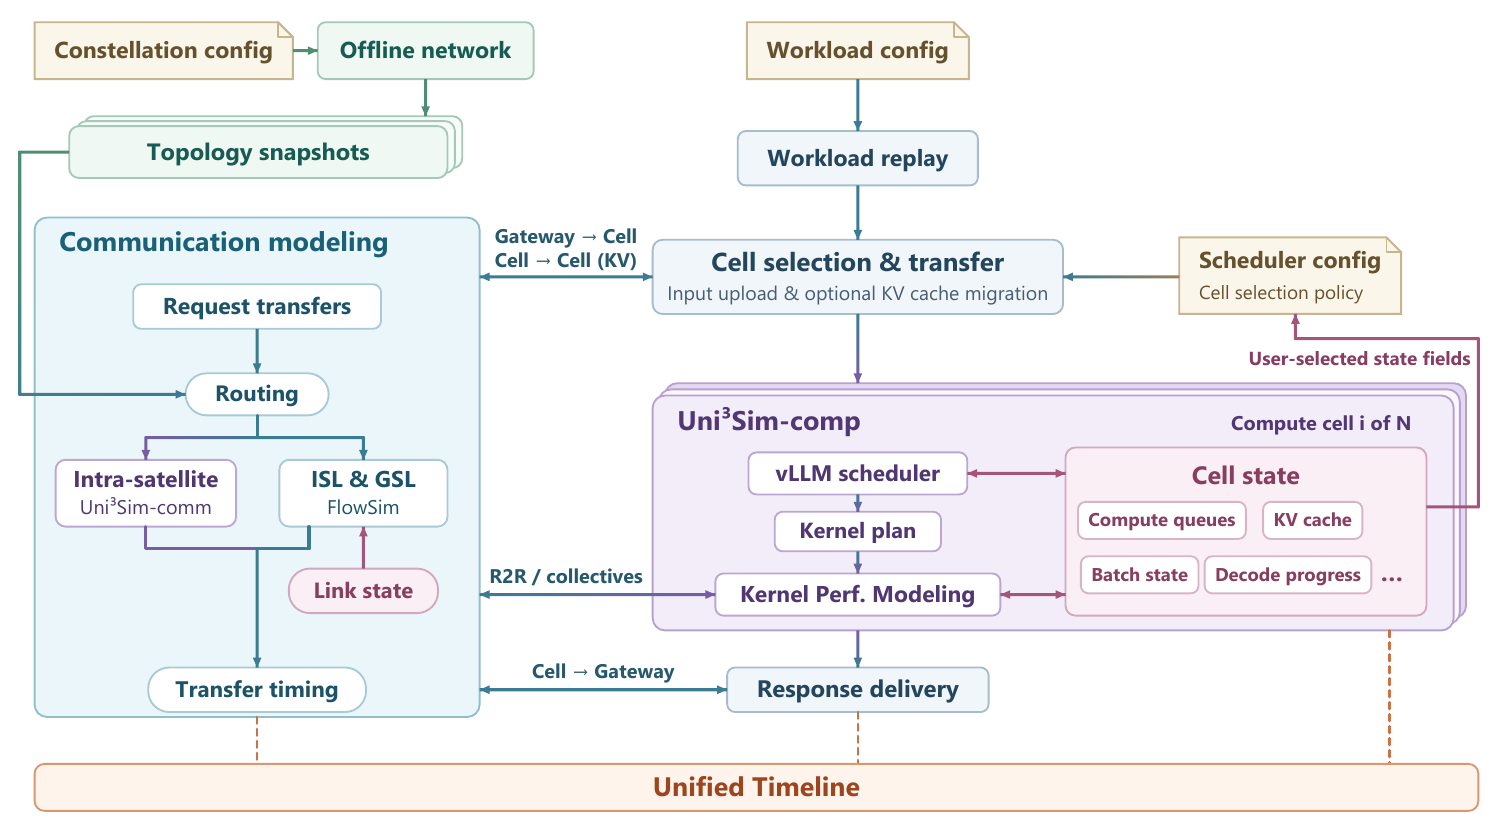
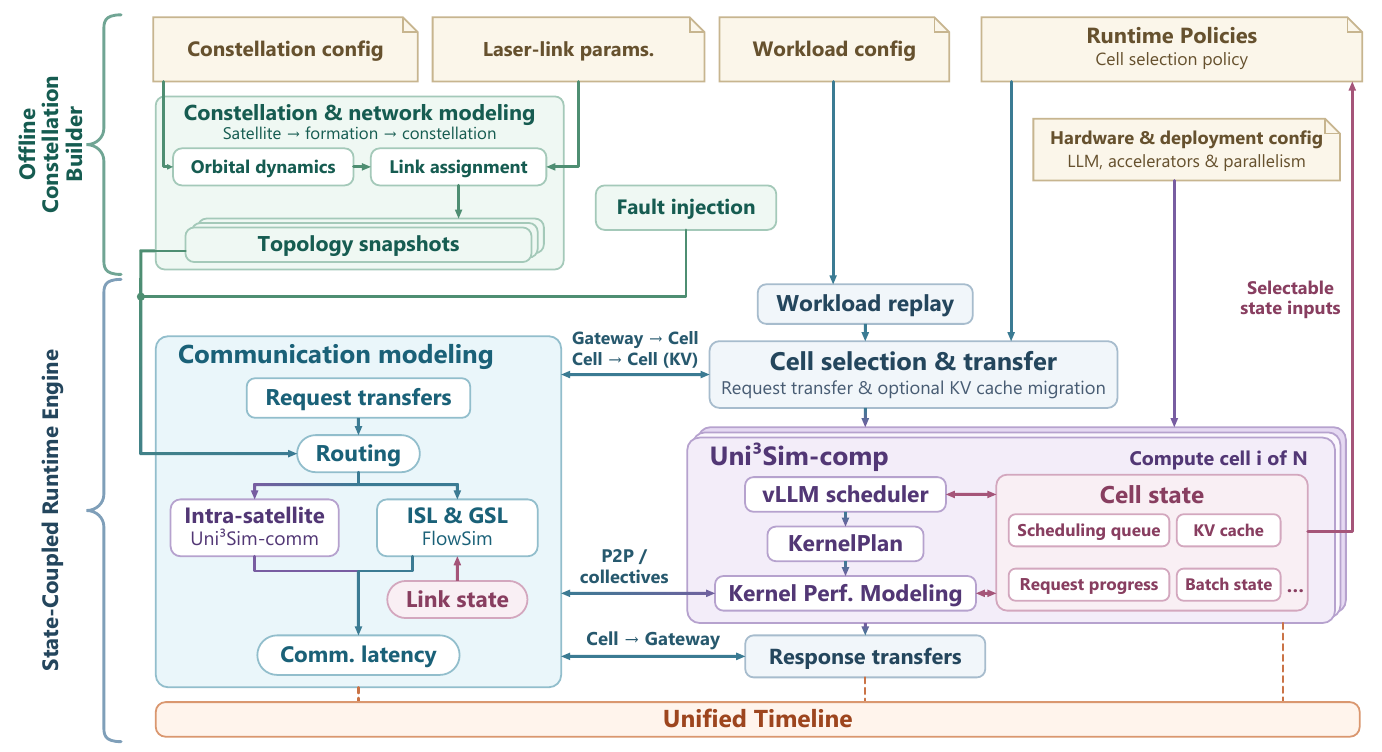
Polish AsterMind README and drop sudo from quick start

Changed region(s): [[0.0, 0.0, 0.9957, 1.0], [0.7156, 0.0, 0.9957, 0.1223], [0.7467, 0.1529, 0.9957, 0.2447]]

diff --git a/README.md b/README.md
@@ -1,8 +1,4 @@
-# AsterMind
-
-<p align="center">
-  <img src="assets/astermind-logo.png" alt="AsterMind logo" width="144">
-</p>
+# <img src="assets/astermind-logo.png" alt="" width="44" align="middle"> AsterMind
 
 English · [简体中文](README.zh-CN.md)
 
@@ -10,7 +6,7 @@ English · [简体中文](README.zh-CN.md)
 
 AsterMind simulates how satellites serve inference requests from users on Earth. It follows requests from gateway ingress through model execution to token delivery, with satellite motion, changing link availability, and contention for network capacity on a shared timeline.
 
-[Technical Report](#technical-report) · [Features](#features) · [Build and Install](#build-and-install) · [Quick Start](#quick-start) · [Contributing](#contributing) · [Contact](#contact)
+[Technical Report](#technical-report) · [Features](#features) · [Overview](#overview) · [Build and Install](#build-and-install) · [Quick Start](#quick-start) · [Contributing](#contributing) · [Contact](#contact)
 
 ## Technical Report
 
@@ -23,17 +19,15 @@ AsterMind simulates how satellites serve inference requests from users on Earth.
 - **Model deployment.** Configure tensor, pipeline, and expert parallelism and map ranks to GPUs and satellites.
 - **Network and metrics.** Model changing links, routing, and bandwidth sharing. Inspect TTFT, TPOT, and end-to-end latency.
 
-## Architecture
+## Overview
 
 ![AsterMind architecture showing workload replay, offline network snapshots, scheduling, Cell execution, and communication](assets/astermind-architecture-en.png)
 
 ## Build and Install
 
-Start from x86-64 Ubuntu 24.04 with internet access and a user who can run `sudo`.
+**Prerequisites.** x86-64 Ubuntu 24.04, Python 3.12 with `venv`, Git, a C/C++ toolchain, Node.js with npm, and `libnuma.so.1`. The examples run on the CPU without model weights or a GPU.
 
 ```bash
-sudo apt-get update
-sudo apt-get install -y git ca-certificates
 git clone --branch version/AsterMind-V1.0 https://github.com/GUANYU-Tech/OrbitServe.git AsterMind
 cd AsterMind
 
@@ -43,8 +37,6 @@ source .venv/bin/activate
 python -m pip install -r requirements.txt
 bash scripts/build.sh
 ```
-
-The build script compiles the C and C++ helpers, prepares the vLLM source checkout, and installs the frontend assets. The simulator runs on the host CPU without model weights.
 
 ## Quick Start
 
@@ -59,29 +51,29 @@ viz/                             Local frontend for L2 and L3
 
 ### Open the Frontend
 
-Start the local service. The 3D previews require a browser with WebGL 2.
+Start the local service with the DeepSeek-V4-Pro example preset. The 3D previews require a browser with WebGL 2.
 
 ```bash
-bash scripts/run.sh
+bash scripts/run.sh --deepseek-v4-example
 ```
 
-Open the [Chinese homepage](http://localhost:8766/) or the [English homepage](http://localhost:8766/en/) and enter the simulation platform. Check [service health](http://localhost:8766/health) for an `ok` status.
+Open the [English homepage](http://localhost:8766/en/) and enter the simulation platform.
 
 | Simulation scope | Frontend | Example |
 | --- | --- | --- |
-| **L2 · Single Cell** | [Compute Cell Simulation (计算 Cell 仿真)](http://localhost:8766/cell/) | [DeepSeek-V4-Pro browser walkthrough](#l2--deepseek-v4-pro). |
-| **L3 · Constellation** | [Full Scenario Simulation (完整场景仿真)](http://localhost:8766/workspace) | Example pending. |
+| **L2 · Single Cell** | [Compute Formation Simulation](http://localhost:8766/cell/) | [DeepSeek-V4-Pro](#l2--deepseek-v4-pro-example) |
+| **L3 · Constellation** | [End-to-End Simulation](http://localhost:8766/workspace) | Example pending. |
 
-### L2 · DeepSeek-V4-Pro
+### L2 · DeepSeek-V4-Pro Example
 
-The browser walkthrough uses the vLLM 0.30 CPU scheduler to simulate **DeepSeek-V4-Pro** with **TP8 × PP4** across four satellites. Each satellite has eight simulated H200 GPUs. The L2 task models inference and communication inside the Cell. It uses a zero-byte client endpoint for request injection and completion.
+Run **DeepSeek-V4-Pro** in **Detail Mode** with **TP8 × PP4** across four satellites with eight simulated H200 GPUs each.
 
-1. Open [Compute Cell Simulation](http://localhost:8766/cell/) and select **New Task (新建任务)**.
-2. In **Resources (星座资源)**, select **NVIDIA H200**, **four satellites**, and **eight GPUs per satellite**. Use a ring with **1 km** spacing.
-3. In **Network (通信网络)**, use one **eight-GPU SU group per satellite** and fixed **400 Gbps** inter-satellite links.
-4. In **Model and Workload (模型负载)**, select **deepseek-v4-pro** and **Fast Mode**. Use two synthetic requests with **16 input tokens** and **2 output tokens** each.
-5. In **Parallel Deployment (并行部署)**, keep **Colocated (同池部署)** and choose **Manual Configuration (手动配置)**. Set **TP 8, PP 4, DP 1** with EP off. Map each stage to a separate satellite.
-6. In **Scheduling (调度运行)**, set **Model Length Limit (模型长度上限)** to **1152 tokens**, choose **deepseek-v4-h200-memory.json** as the **Memory Policy (显存策略)**, and turn off **Chunked Prefill (分块 Prefill)**. Select **Submit Task (发布任务)**. Open **Simulation Results (仿真结果)** to see both completed requests and the compute and communication timelines.
+1. Open [Compute Formation Simulation](http://localhost:8766/cell/), switch to **EN**, and select **New Task**.
+2. In **Constellation Resources**, select **NVIDIA H200**, **four satellites**, and **eight GPUs per satellite**. Set the formation to **Ring** with **1 km** spacing.
+3. In **Communication Network**, use one **eight-GPU SU group per satellite** and set the inter-satellite links to **Fixed-Bandwidth Mode** at **400 Gbps**.
+4. In **Model and Workload**, select **deepseek-v4-pro** and **Detail Mode**. Set two synthetic requests at **16 requests/s**, each with **16 input tokens** and **2 output tokens**.
+5. In **Parallel Deployment**, select **Colocated** and **Manual Configuration**. Set **TP 8, PP 4, DP 1** with EP off. Map each pipeline stage to a separate satellite.
+6. In **Scheduling and Execution**, set **Maximum Model Context Length** to **1152 tokens** and turn off **Chunked Prefill**. Select **Submit Task**. Open **Simulation Results** to view both requests and their compute and communication timelines.
 
 ### L3 · Constellation Simulation Example
 
